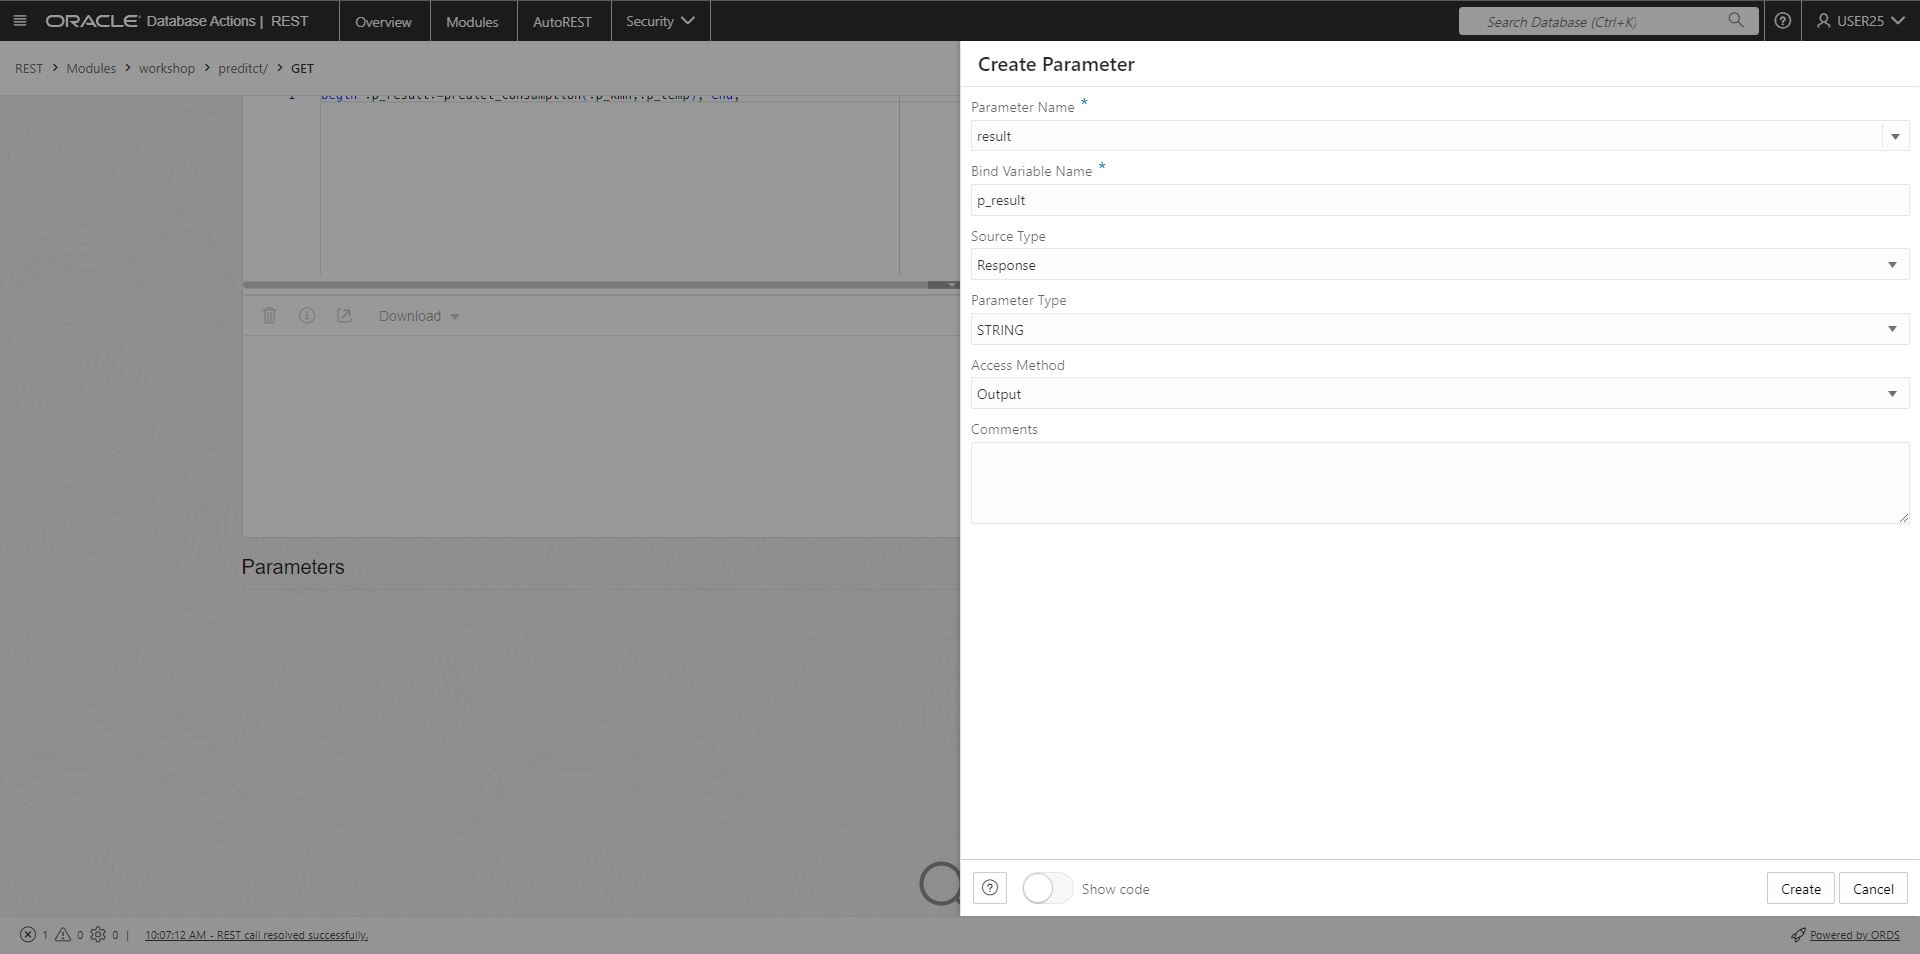
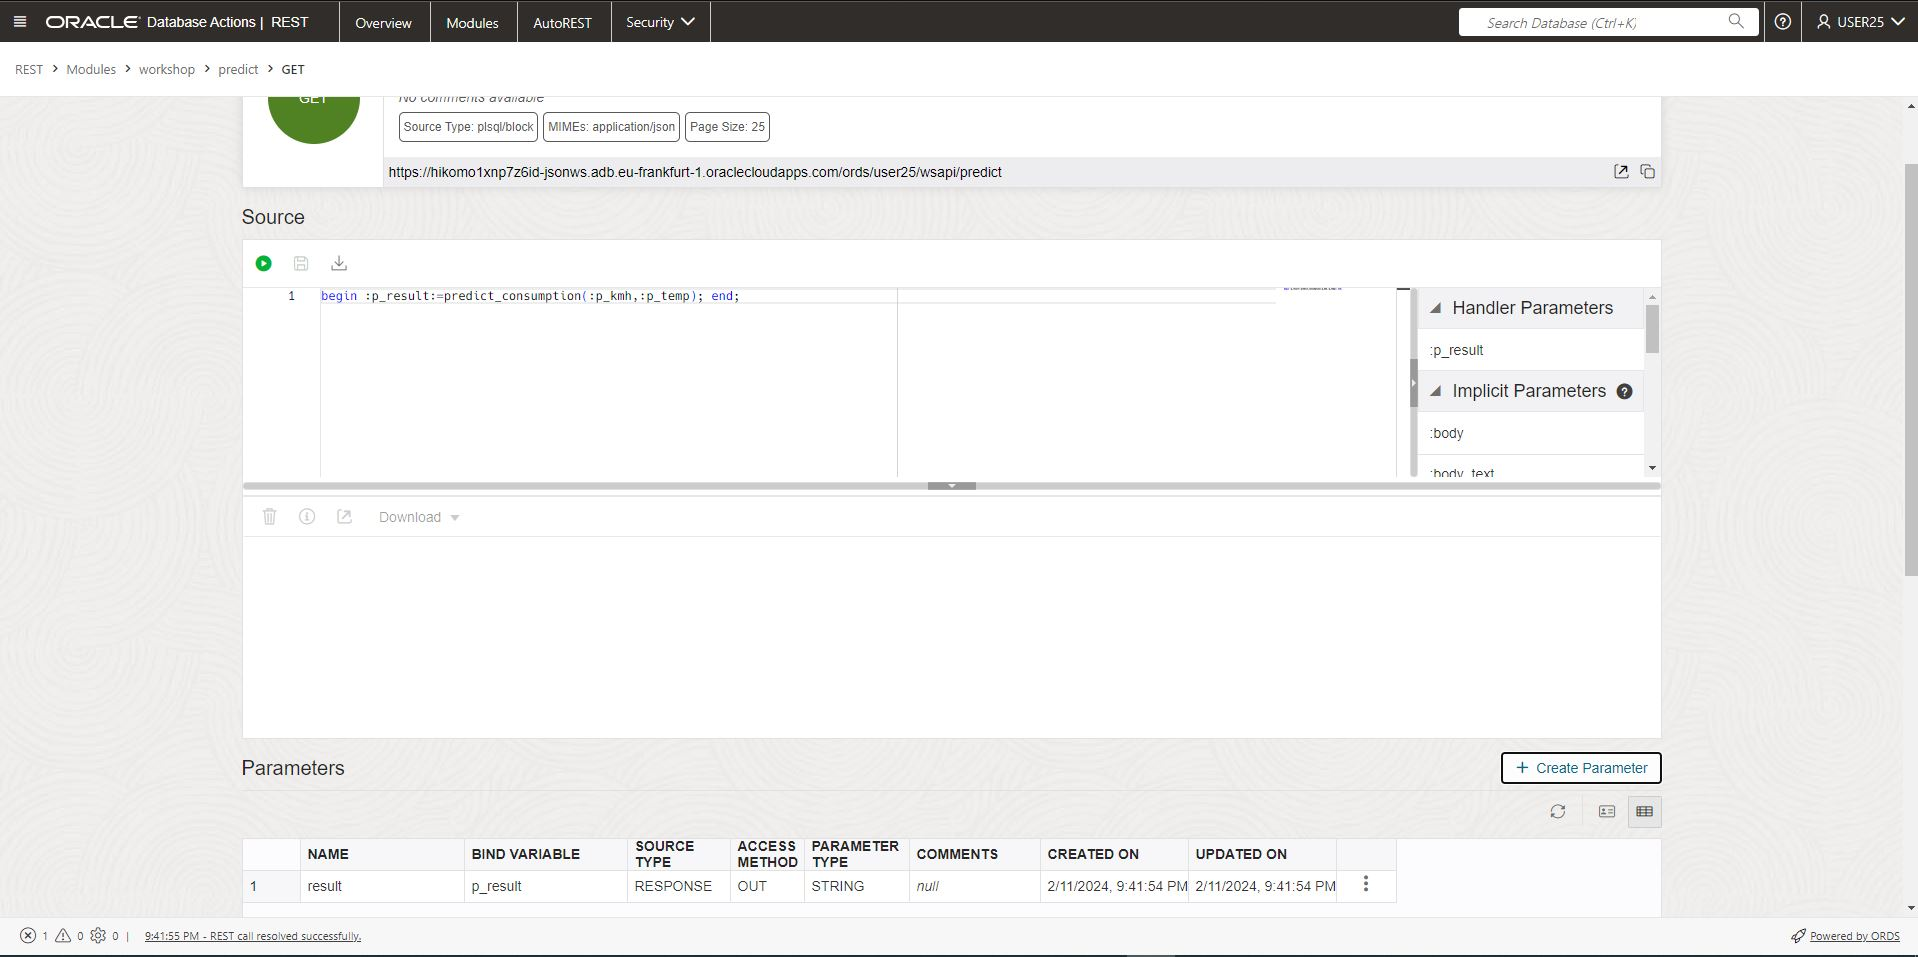
1202-V1

diff --git a/images/hello.html b/images/hello.html
@@ -1,0 +1,3 @@
+<BODY>
+hello world
+</BODY>

diff --git a/labs/ords.md b/labs/ords.md
@@ -12,21 +12,22 @@ Navigate to the ORDS screen in dbactions
 
 ![ORDS Screen](../images/ords1.JPG)
 
-![ORDS Screen](../images/ords2.JPG)
+Select modules from top menu  
 
-Slect modules from top menu  
+![ORDS Screen](../images/ords2.JPG)
 
 ![ORDS Screen](../images/ords3.JPG)
   
-Clik crate module, enter name "workshop", leave the rest, click create  
+Clik create module, enter name "workshop", leave the rest, click create  
 
 ![ORDS Screen](../images/ords4.JPG)
   
-Module created  
+Module created, In the workshop title, select create template
 
 ![ORDS Screen](../images/ords5.JPG)
-  
-Click on "create teplate"  
+
+You will now create the tempkmh REST API with POST  
+Click on "create template"  
 
 ![ORDS Screen](../images/ords6.JPG)
   
@@ -34,16 +35,89 @@ Enter Template name "tempkmh", click create
 
 ![ORDS Screen](../images/ords7.JPG)
   
-Select create handler, select POST and add PL/SQL statement  
+Click create handler, select POST and add PL/SQL statement:  
 
-'begin insert into logdata (temp,kmh) values(:temp,:kmh); commit; end;
-  ![ORDS Screen](../images/ords12.JPG)
-  
-Select on MIMEs Allowed  
+`begin insert into logdata (temp,kmh) values(:temp,:kmh); commit; end;`  
 
-![ORDS Screen](../images/ords14.JPG)
+![ORDS Screen](../images/ords8.JPG)
+ 
+![ORDS Screen](../images/ords9.JPG)
+
+Navigate to MIMEs allowed and select application/json and click add  
   
-Well done, first API created  
+![ORDS Screen](../images/ords10.JPG)
+
+![ORDS Screen](../images/ords11.JPG)
+
+![ORDS Screen](../images/ords12.JPG)
+
+The first REST API handlers is complete
+
+![ORDS Screen](../images/ords13.JPG)
+
+Well done, first API created, navigate back to "workshop"    
+  
+![ORDS Screen 14](../images/ords14.JPG)
+  
+Repeat the steps for creating the temp REST API with POST  
+
 ![ORDS Screen](../images/ords15.JPG)
 
 ![ORDS Screen](../images/ords16.JPG)
+
+Enter the PL/SQL below in the handler:  
+
+`begin insert into logdata (temp) values(:temp); commit; end;` 
+
+![ORDS Screen](../images/ords16.JPG)
+
+![ORDS Screen](../images/ords17.JPG)
+
+![ORDS Screen](../images/ords18.JPG)
+
+![ORDS Screen](../images/ords19.JPG)
+
+The REST API temp is added.  
+
+![ORDS Screen](../images/ords20.JPG)  
+
+Repeat the steps and add REST API kmh, POST. 
+Add the following PL/SQL in the POST handler:  
+`begin insert into current_speed (kmh) values(:kmh); commit; end;` 
+
+![ORDS Screen](../images/ords21.JPG)
+
+![ORDS Screen](../images/ords22.JPG)
+
+![ORDS Screen](../images/ords23.JPG)
+
+![ORDS Screen](../images/ords24.JPG)
+
+![ORDS Screen](../images/ords25.JPG)
+
+The last REST API, preditct GET deviates a bit.  
+This REST API select ad value with a PL/SQL having two input query parameters
+
+Repeat the steps and add REST API predict, GET. 
+Add the following PL/SQL in the POST handler:  
+`begin :p_result:=predict_consumption(:p_kmh,:p_temp); end;` 
+
+![ORDS Screen](../images/ords30.JPG)
+
+![ORDS Screen](../images/ords31.JPG)
+
+![ORDS Screen](../images/ords32.JPG)
+
+![ORDS Screen](../images/ords33.JPG)
+
+![ORDS Screen](../images/ords34.JPG)
+
+The GET REST API needs to define the return value from the PL/SQL function as a parameter  
+Create the parameter:  
+
+![ORDS Screen](../images/ords34.JPG)
+
+![ORDS Screen](../images/ords35.JPG)
+
+
+

diff --git a/labs/lab4.md b/labs/lab4.md
@@ -25,13 +25,13 @@ One simple tool is Code with Mu
 The command-line Python script inserts into either the logdata or current_speed tables, or lists the last 25 records from logdata  
 Usage:  
 Get the 25 latest records from logdata  
-`python simulate.py --url https://<myadb url>/ords/user25/wsapi/temp  
+`python simulate.py --url https://<myadb url>/ords/user25/wsapi/temp` 
 Create new logdata record with temp and speed  
-`python simulate.py --url https://<myadb url>/ords/user25/wsapi/temp --temp 23  --kmh 74
+`python simulate.py --url https://<myadb url>/ords/user25/wsapi/temp --temp 23  --kmh 74` 
 Create new logdata record, but apply latest record in current_speed as speed  
-`python simulate.py --url https://<myadb url>/ords/user25/wsapi/temp --temp 23
+`python simulate.py --url https://<myadb url>/ords/user25/wsapi/temp --temp 23` 
 Create new record in the current_speed table  
-`python simulate.py --url https://<myadb url>/ords/user25/wsapi/temp --speed 75
+`python simulate.py --url https://<myadb url>/ords/user25/wsapi/temp --speed 75` 
 
 ## Arduino instructions
 

diff --git a/labs/dataload.md b/labs/dataload.md
@@ -4,11 +4,11 @@ Navigate to Database Actions and click on data load
 
 ![DataLoad](images/dl1.jpg)
 
-Drag and drop kjoredataV2.xlsx into the file area
+Drag and drop kjoredataV2.xlsx into the file area, and click on upload
 
 ![DataLoad](images/dl2.jpg)
 
-Click on upload
+Select settings
 
 ![DataLoad](images/dl3.jpg)
 
@@ -16,7 +16,7 @@ Accept defaults an click next
 
 ![DataLoad](images/dl4.jpg)
 
-Change to load into existing table, corect date format
+Change to load into existing table, correct date format, save settings
 
 ![DataLoad](images/dl5.jpg)
 
@@ -24,12 +24,11 @@ Run the upload
 
 ![DataLoad](images/dl6.jpg)
 
-Upload completed without errors
+Upload completed without errors, verify number of rows, 82 rows should be loaded
 
 ![DataLoad](images/dl7.jpg)
 
-Verify number of rows, 82 rows should be loaded
 
-![DataLoad](images/dl8.jpg)
+
 
 

diff --git a/labs/lab1.md b/labs/lab1.md
@@ -22,9 +22,9 @@ The URL to database actions, with SQL, ML and ORDS in this example will be:
 `jsonws.adb.eu-frankfurt-1.oraclecloudapps.com/ords/user25/_sdw/?nav=worksheet`
 
 3 tables are needed for the labs:  
-. collected_data  the data collection used for Machine Learning
-. logdata         dataletion from "car" aka device
-. current_speed   Teh device used in the lab only collects temp. When inserting into logd data if kmh is missing, the insert will fetch from current_speed
+ - trip  the data collection used for Machine Learning
+- logdata         dataletion from "car" aka device
+- current_speed   Teh device used in the lab only collects temp. When inserting into logd data if kmh is missing, the insert will fetch from current_speed
 
 Logon and navigate to SQL:  
 

diff --git a/labs/lab3.md b/labs/lab3.md
@@ -17,7 +17,7 @@ Complete lab 1
 ## Instructions
 
 The lab consists of two elements:
-- Load the training data
+- Load the training data into the trip table
 - Build the ORDS environment
 
 
@@ -25,11 +25,11 @@ The lab consists of two elements:
 
 Locate the file kjoredataV2.xlsx on your cloned git repo
 
-Run the instructions from ![Instructions](labs/dataload.md)
+Run the instructions from ![Instructions](dataload.md)
 
 ## Create the ORDS REST Envrionment
 
-Run the instructions from ![Instructions](labs/ords.md)
+Run the instructions from ![Instructions](ords.md)
 
 ## Verification of the ORDS REST API with curl
 

diff --git a/README.md b/README.md
@@ -65,6 +65,8 @@ The URL to the APEX Worksapace is:
 `https://<your ATP instance>.adb.eu-frankfurt-1.oraclecloudapps.com/ords/r/apex/workspace-sign-in/oracle-apex-sign-in?session=106975469353731`
 
 ![APEX logon](images/apex_logon.jpg)  
+  
+
 ![APEX workspace](images/apex_workspace.jpg)
 
 ## Workshop part 6
@@ -80,10 +82,13 @@ Run APEX app and visualize prediction
 ## Pictures
 
   
-Picture of the device
+
   
 ![Arduino](images/arduino.jpg?raw=true "Title")
   
-Picture of the car
+  The device
+  
   
 ![BMW](images/bmw.jpg?raw=true "Title")
+  
+  Der Wagen
